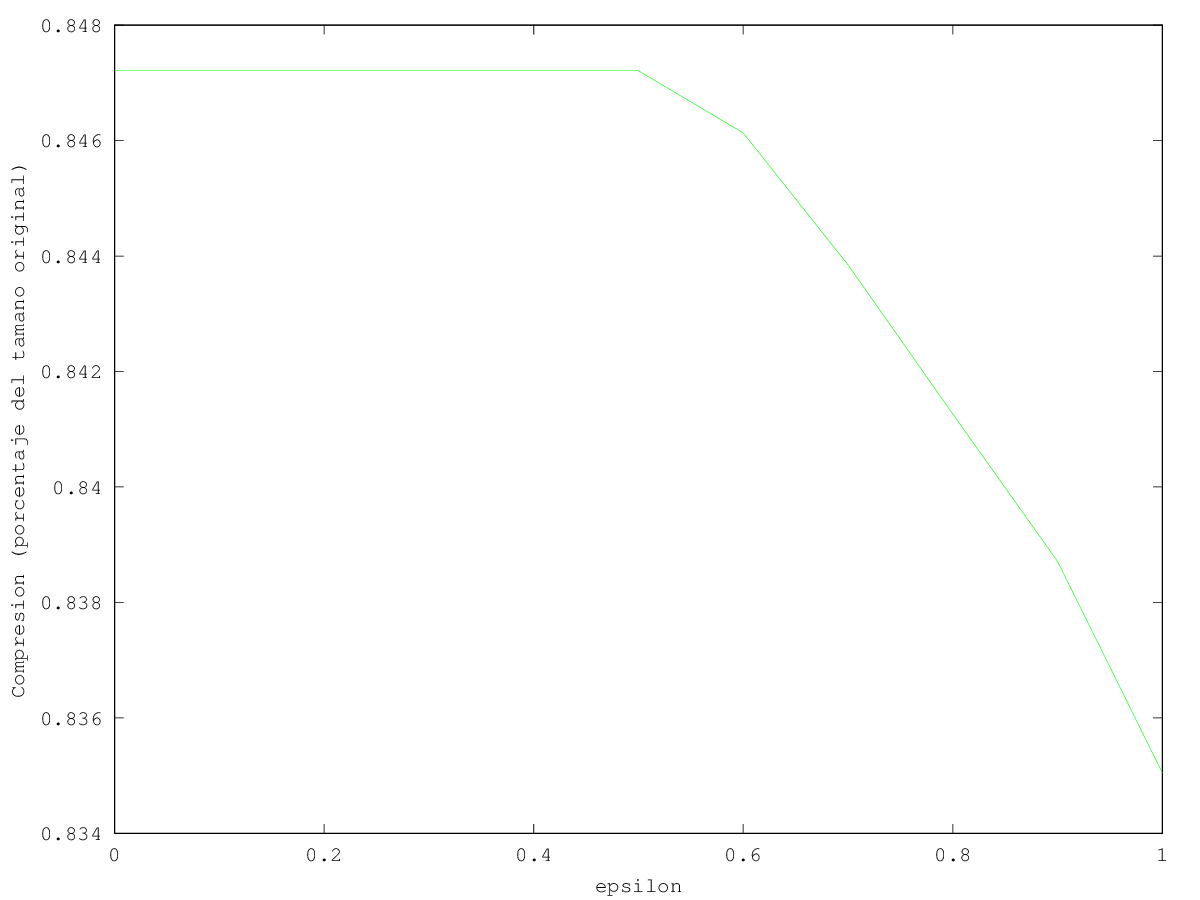
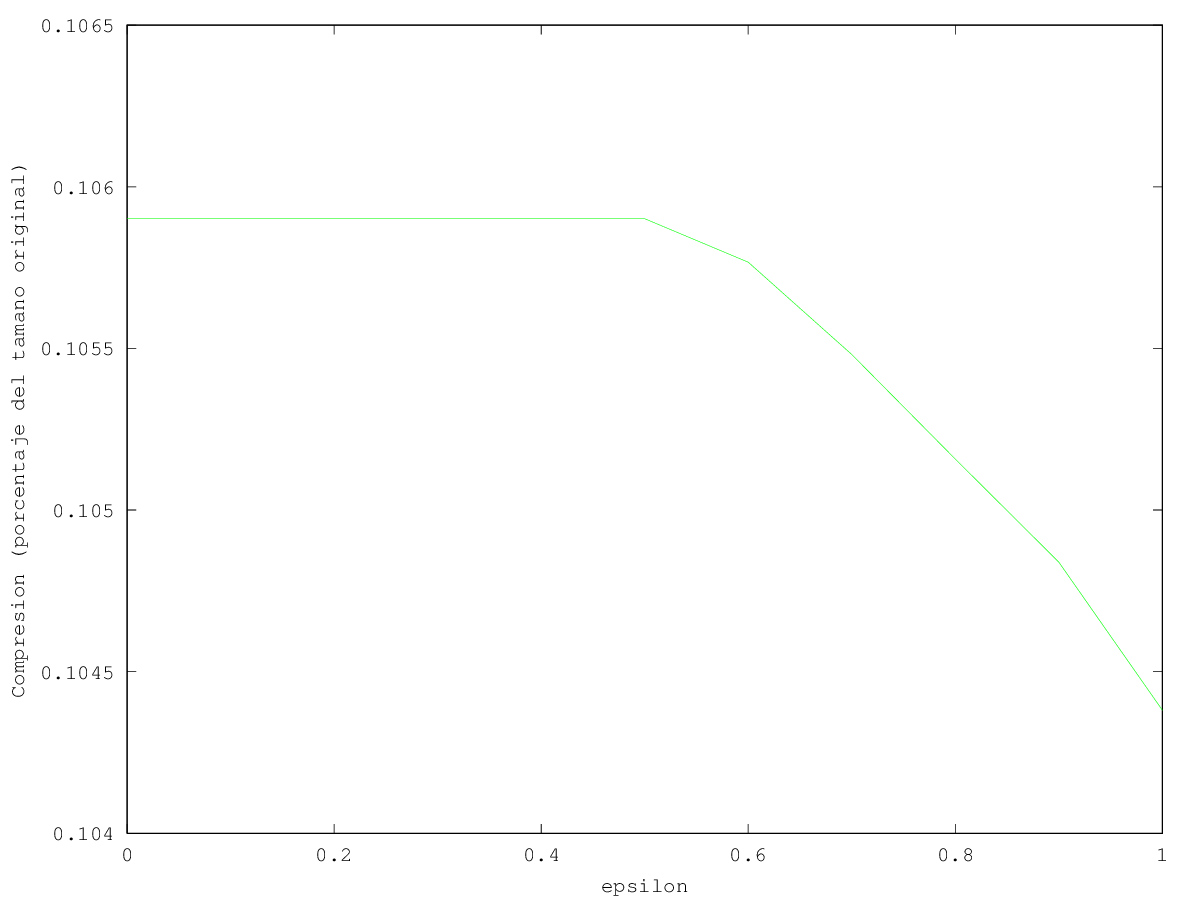
Hice varios cambios y actualicé los gráficos.

diff --git a/src/main.m b/src/main.m
@@ -1,13 +1,13 @@
 1;
 
-source("/Users/Enzo/Documents/TP_MNA/src/compression.m");
-source("/Users/Enzo/Documents/TP_MNA/src/wav_loader.m");
-source("/Users/Enzo/Documents/TP_MNA/src/huffman.m");
-source("/Users/Enzo/Documents/TP_MNA/src/statistics.m");
+source("./src/compression.m");
+source("./src/wav_loader.m");
+source("./src/huffman.m");
+source("./src/statistics.m");
 
 
 function [C, distortion, compressionFactor] = processWav(name, L=16, E=0.1, generateWav=true)
-    [Y, fileSize] = loadWav(name);
+    [Y, fileSizeInBits] = loadWav(name);
     C = compressWav(Y, L, E);
 
     U = uncompress(C);
@@ -28,26 +28,29 @@ function plotWithFixedBits(name, epsilon=0.1, L=4)
     plot(x, distortion, "b");
     xlabel("epsilon");
     ylabel("Distorcion (mas chico mejor)");
-    print -dpng -color "../plots/distorcion_media_fixed_bits.png";
+    print -dpng -color "./plots/distorcion_media_fixed_bits.png";
     plot(x, compressionFactor, "g");
     xlabel("epsilon");
     ylabel("Compresion (porcentaje del tamano original)");
-    print -dpng -color "../plots/compresion_media_fixed_bits.png";
+    print -dpng -color "./plots/compresion_media_fixed_bits.png";
 end
 
 function plotWithFixedEpsilon(name, epsilon=0.1, maxL=8)
     distortion = [];
     compressionFactor = [];
-    L = [1:maxL].^2;
+    L = 2 * ones(maxL, 1);
+    for j = 1:maxL
+        L(j) = L(j) ^ j;
+    end
     for j = 1:length(L)
         [_, distortion(j), compressionFactor(j)] = processWav(name, L(j), epsilon, false);
     end
     plot(L, distortion, "b");
     xlabel("Bits de Cuantificacion (L)");
     ylabel("Distorcion (mas chico mejor)");
-    print -dpng -color "../plots/distorcion_media_fixed_epsilon.png";
+    print -dpng -color "./plots/distorcion_media_fixed_epsilon.png";
     plot(L, compressionFactor, "g");
     xlabel("Bits de Cuantificacion (L)");
     ylabel("Compresion (porcentaje del tamano original)");
-    print -dpng -color "../plots/compresion_media_fixed_epsilon.png";
+    print -dpng -color "./plots/compresion_media_fixed_epsilon.png";
 end

diff --git a/src/wav_loader.m b/src/wav_loader.m
@@ -1,13 +1,13 @@
 1;
 
 function [Y, fileSize] = loadWav(name)
-    name = ["../wav/" name ".wav"];
+    name = ["./wav/" name ".wav"];
     [Y, fs, bps] = wavread(name);
     [info, err, msg] = lstat(name);
-    fileSize = info.size;
+    fileSize = info.size * 8;
 end
 
 function writeWav(Y, name)
-    wavwrite(Y, ["../wav/" name "_COMPRESSED.wav"]);
+    wavwrite(Y, ["./wav/" name "_COMPRESSED.wav"]);
     ["Wav file written with name: " name "_COMPRESSED.wav"]
 end

diff --git a/src/compression.m b/src/compression.m
@@ -1,13 +1,8 @@
 1;
 
-autoload("fastFourierTransformDivAndConq", "FFT.m");
-
 
 function X = compressWav(Y, L, E)
     X = fft(Y);
-    plot(abs(X));
-    xlabel("frecuencia");
-    ylabel("Valor absoluto de la senal");
     X = compress(X, L, E);
 end
 
